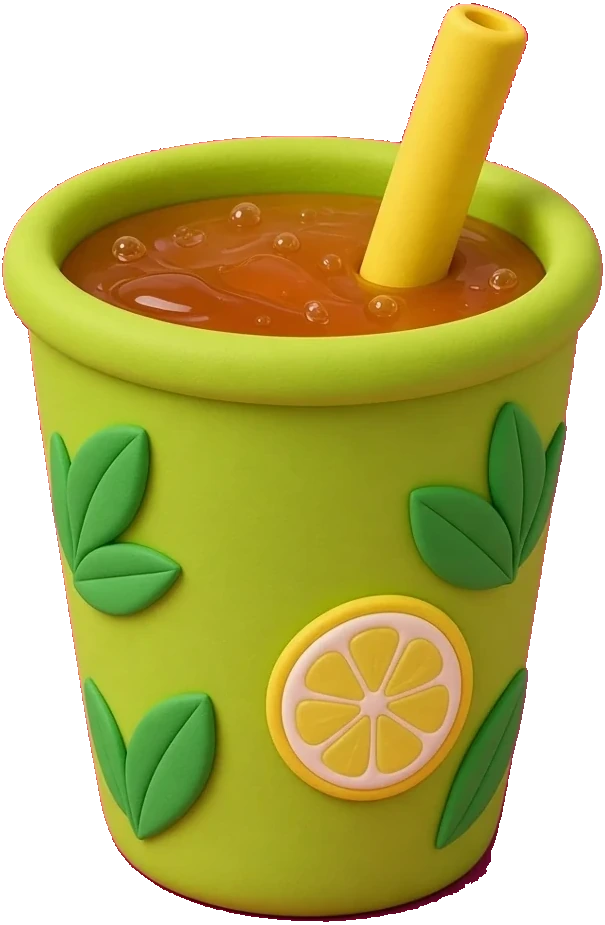
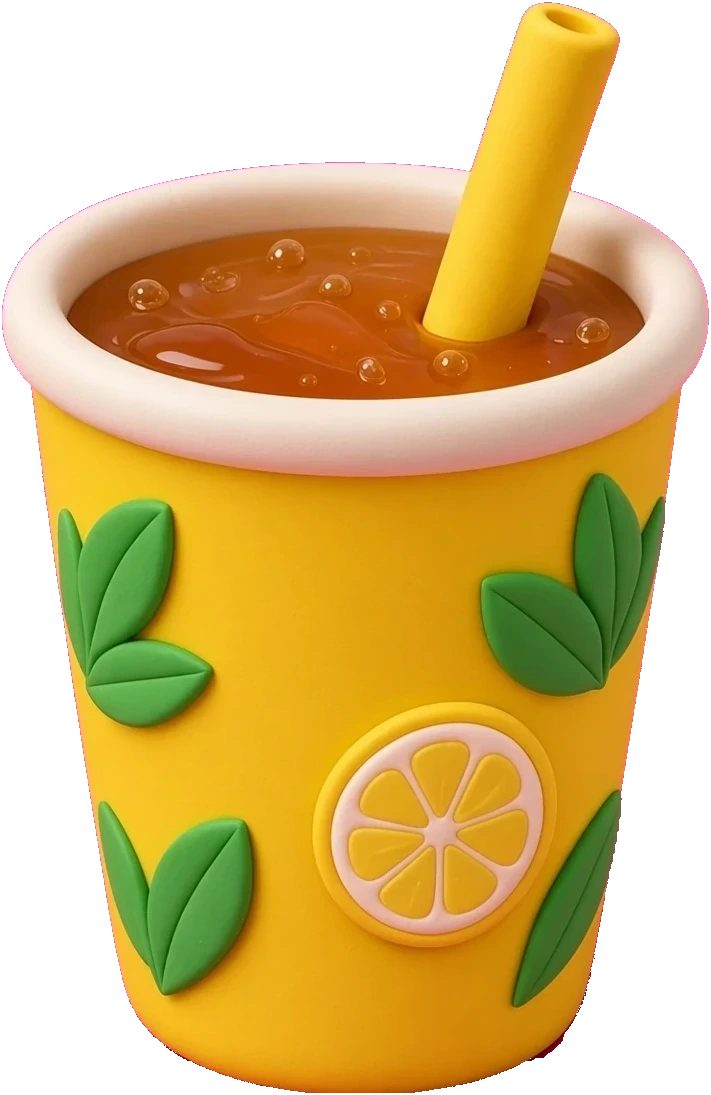
Unify the Shop lemon-tea cup and label the flavor jars
The order-bubble tea and the lemon-tea dispenser now share one sunny yellow cup with lemon slices and leaves. The four powder jars get 洋蔥, BBQ, 起司, and 香辣 capsules that match the order names.

diff --git a/games/games.css b/games/games.css
@@ -232,7 +232,21 @@ body.play.shoppage.playing .hud-pause{display:block}
 .shop-stage .slot .dish{object-fit:contain;width:90%;height:90%;z-index:1}
 .shop-stage .drink-eq .art{object-fit:cover;width:104%;height:104%;object-position:center 58%}
 .shop-stage .raw img{width:104%;height:104%;object-fit:cover;object-position:center 42%;position:relative;z-index:1}
-.shop-stage .flav img{width:108%;height:108%;object-fit:contain;position:relative;z-index:1}
+.shop-stage .flav img{width:100%;height:82%;object-fit:contain;object-position:center 18%;position:relative;z-index:1;margin-bottom:0}
+.shop-stage .flav .flav-lab{
+  display:block!important;
+  position:absolute;left:50%;bottom:3px;right:auto;top:auto;
+  transform:translateX(-50%);
+  z-index:6;margin:0;padding:2px 6px 2px;
+  font-size:9px;font-weight:900;letter-spacing:.02em;line-height:1.1;text-align:center;
+  color:#fff;
+  text-shadow:0 0 2px #000,0 1px 0 #000,0 -1px 0 #000,1px 0 0 #000,-1px 0 0 #000,0 1px 2px #000;
+  background:rgba(16,12,8,.9);
+  border-radius:99px;
+  pointer-events:none;white-space:nowrap;overflow:visible;text-overflow:clip;
+  box-shadow:0 1px 2px rgba(0,0,0,.55),inset 0 0 0 1px rgba(255,255,255,.2);
+  background-image:none;
+}
 .shop-stage .st span{display:none!important}
 .shop-stage #plates{background:linear-gradient(180deg,rgba(120,90,30,.22),rgba(40,30,12,.12));border-radius:6px;padding:3px}
 .shop-stage #serves{background:linear-gradient(180deg,rgba(20,120,50,.26),rgba(10,40,20,.12));border-radius:6px;padding:3px}

diff --git a/games/shop.js b/games/shop.js
@@ -362,7 +362,7 @@ function buildStations(){
   }).join('');
   elFlavs.innerHTML=FLAVS.map(function(k){
     var lab=({onion:'洋蔥',bbq:'BBQ',cheese:'起司',chili:'香辣'}[k]||FLAV[k].name);
-    return '<button class="cell st flav flav-'+k+'" data-flav="'+k+'" type="button" aria-label="'+lab+'">'+icon(FLAV[k].img)+'</button>';
+    return '<button class="cell st flav flav-'+k+'" data-flav="'+k+'" type="button" aria-label="'+lab+'">'+icon(FLAV[k].img)+'<span class="flav-lab">'+lab+'</span></button>';
   }).join('');
   [].forEach.call(elRaws.querySelectorAll('.raw'),function(btn){
     btn.addEventListener('click',function(){startFry(btn.getAttribute('data-food'))});

diff --git a/games/shop.html b/games/shop.html
@@ -9,7 +9,7 @@
 <meta name="description" content="經營一間 Potato Corner 小店：下鍋、調味、做飲料，在客人離開前把餐點送對。請橫放手機遊玩。非官方小遊戲。">
 <link rel="icon" href="../assets/favicon.svg" type="image/svg+xml">
 <link rel="apple-touch-icon" href="../assets/apple-touch-icon.png">
-<link rel="stylesheet" href="games.css?v=26">
+<link rel="stylesheet" href="games.css?v=27">
 </head>
 <body class="play shoppage">
 <div class="stagewrap" id="wrap">
@@ -59,6 +59,6 @@
 </div>
 </div>
 <script src="games.js?v=3"></script>
-<script src="shop.js?v=14"></script>
+<script src="shop.js?v=15"></script>
 </body>
 </html>
